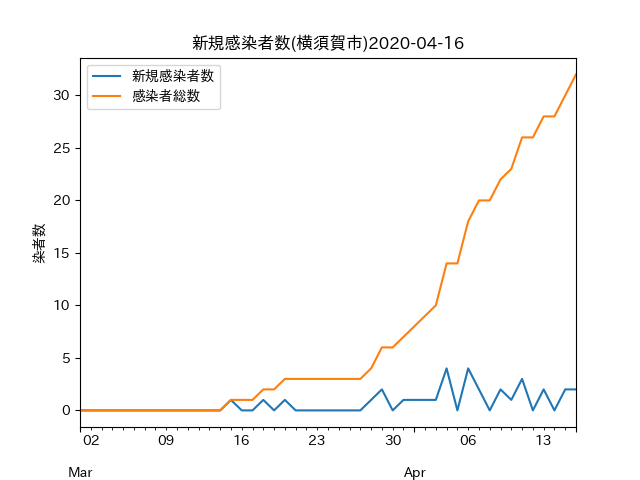
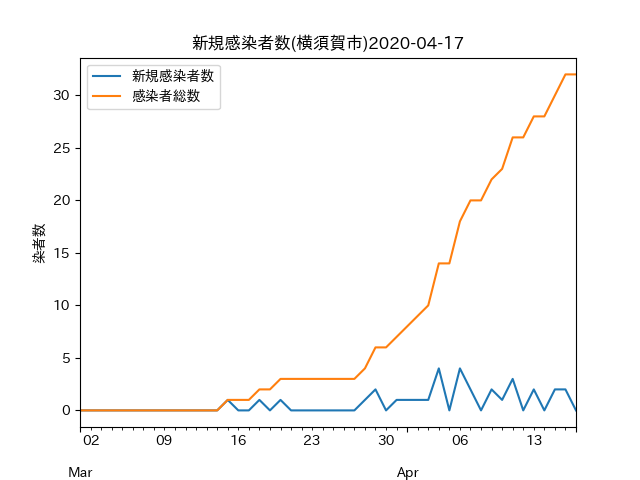
Add pie chart

diff --git a/make_chart.py b/make_chart.py
@@ -22,10 +22,7 @@ def get_datelist():
 
     return full_date
 
-
-if __name__=='__main__':
-    lst = pd.read_html('https://www.city.yokosuka.kanagawa.jp/3130/hasseijoukyou.html', flavor='bs4')
-
+def line_chart(lst):
     df = lst[0].sort_values('患者確定日')
     for idx, row in df.iterrows():
         df.at[idx, '患者確定日']=pd.to_datetime("2020年"+row['患者確定日'], format='%Y年%m月%d日')
@@ -41,6 +38,7 @@ if __name__=='__main__':
     df_full_date=pd.DataFrame({'新規感染者数':full_date})
     df_full_date['感染者総数']=0
 
+    # sum
     psum = 0
     for idx,item in df_full_date.iterrows():
         psum=psum+df_full_date.at[idx, '新規感染者数']
@@ -48,8 +46,26 @@ if __name__=='__main__':
 
     tdy=dd.today().strftime('%Y-%m-%d')
 
+    # describe chart
     ax = df_full_date.plot(title='新規感染者数(横須賀市)'+tdy)
     ax.set_xlabel('日付')
     ax.set_ylabel('染者数')
     fig = ax.get_figure()
     fig.savefig('chart_of_covid19_in_yokosuka.png')
+
+def pie_chart_age(lst):
+    df = lst[0]
+    filtered_df=df.query('年代 != "-"')
+    grouped_se = filtered_df.groupby('年代').size()
+    print(type(grouped_se))
+    ax = grouped_se.plot(kind='pie', title='年代別円グラフ@横須賀市')
+    ax.set_xlabel('')
+    ax.set_ylabel('')
+    fig = ax.get_figure()
+    fig.savefig('pie_chart_of_age_in_yokosuka.png')
+
+if __name__=='__main__':
+    lst = pd.read_html('https://www.city.yokosuka.kanagawa.jp/3130/hasseijoukyou.html', flavor='bs4')
+
+    line_chart(lst)
+    pie_chart_age(lst)
